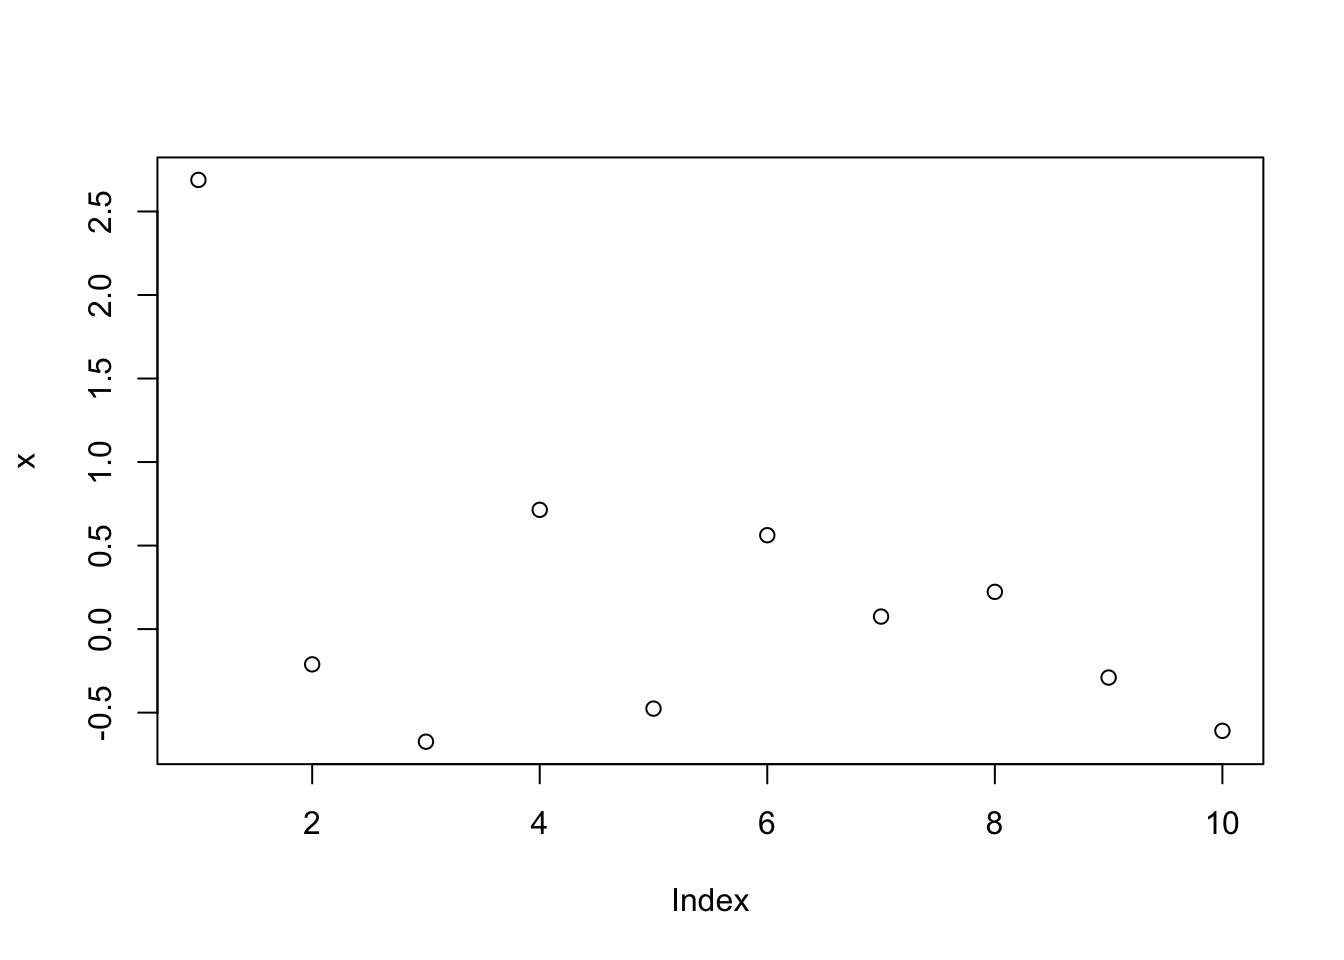
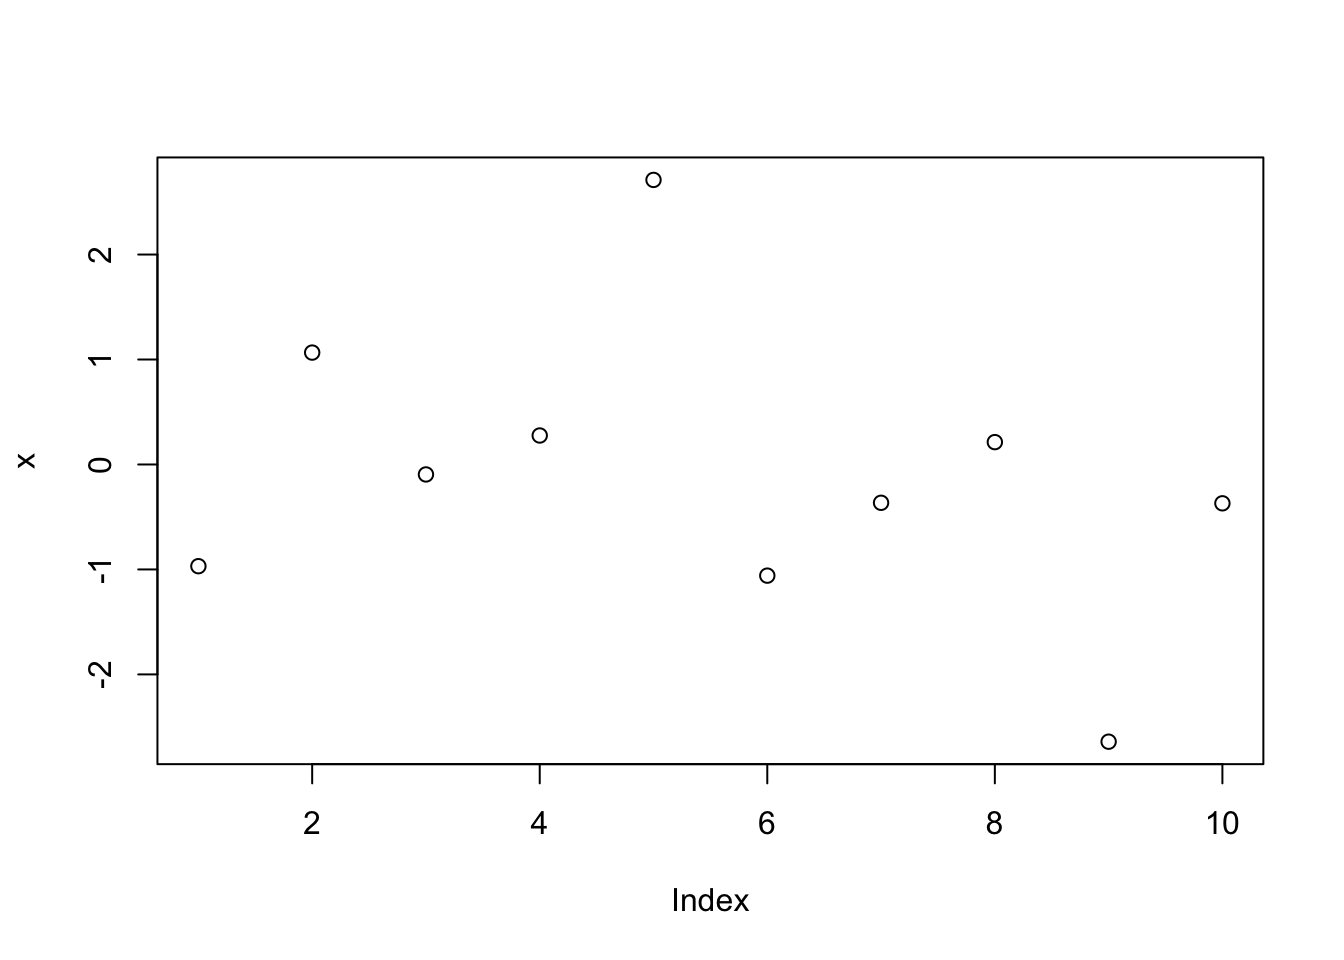
Edited css

diff --git a/docs/weekly-notes/index.html b/docs/weekly-notes/index.html
@@ -135,7 +135,7 @@ window.Quarto = {
 };
 </script>
 
-<link rel="stylesheet" href="styles.css">
+<link rel="stylesheet" href="../styles.css">
 </head>
 
 <body class="nav-fixed quarto-light">
@@ -227,7 +227,7 @@ Sep 2, 2026
 </a>
 </div>
 </div>
-<div class="quarto-post image-right" data-index="1" data-listing-date-sort="1788148800000" data-listing-file-modified-sort="1788541188343" data-listing-date-modified-sort="NaN" data-listing-reading-time-sort="3" data-listing-word-count-sort="481">
+<div class="quarto-post image-right" data-index="1" data-listing-date-sort="1788148800000" data-listing-file-modified-sort="1788541519713" data-listing-date-modified-sort="NaN" data-listing-reading-time-sort="3" data-listing-word-count-sort="478">
 <div class="thumbnail"><a href="../weekly-notes/Lecture2.html" class="no-external">
 
 <p class="card-img-top"><img loading='lazy' src="Lecture2_files/figure-html/unnamed-chunk-5-1.png"  class="thumbnail-image card-img"/></p>

diff --git a/docs/styles.css b/docs/styles.css
@@ -1,0 +1,26 @@
+.navbar {
+  background-color: #1a76bd!important;
+}
+.navbar-brand, .navbar-nav .nav-link {
+  color: #a8d1f0 !important; /* or whatever contrasts well */
+}
+
+.navbar-brand:hover,
+.navbar-nav .nav-link:hover {
+  color: #cee4f5 !important;
+}
+
+code:not(pre code) {
+  color: #d43a02 !important;
+}
+
+.sidebar nav[role="doc-toc"] ul > li > a:hover,
+.sidebar nav[role="doc-toc"] ul > li > ul > li > a:hover {
+  color: #1a76bd !important;
+  border-left: 1px solid #1a76bd;
+}
+
+.sidebar nav[role=doc-toc] ul>li>a.active, .sidebar nav[role=doc-toc] ul>li>ul>li>a.active {
+    border-left: 1px solid #1a76bd;
+    color: #1a76bd !important;
+}

diff --git a/styles.css b/styles.css
@@ -1,0 +1,26 @@
+.navbar {
+  background-color: #1a76bd!important;
+}
+.navbar-brand, .navbar-nav .nav-link {
+  color: #a8d1f0 !important; /* or whatever contrasts well */
+}
+
+.navbar-brand:hover,
+.navbar-nav .nav-link:hover {
+  color: #cee4f5 !important;
+}
+
+code:not(pre code) {
+  color: #d43a02 !important;
+}
+
+.sidebar nav[role="doc-toc"] ul > li > a:hover,
+.sidebar nav[role="doc-toc"] ul > li > ul > li > a:hover {
+  color: #1a76bd !important;
+  border-left: 1px solid #1a76bd;
+}
+
+.sidebar nav[role=doc-toc] ul>li>a.active, .sidebar nav[role=doc-toc] ul>li>ul>li>a.active {
+    border-left: 1px solid #1a76bd;
+    color: #1a76bd !important;
+}

diff --git a/docs/weekly-notes/Lecture2.html b/docs/weekly-notes/Lecture2.html
@@ -141,7 +141,7 @@ window.Quarto = {
 };
 </script>
 
-<link rel="stylesheet" href="styles.css">
+<link rel="stylesheet" href="../styles.css">
 </head>
 
 <body class="nav-fixed quarto-light">

diff --git a/docs/weekly-notes/Lecture3.html b/docs/weekly-notes/Lecture3.html
@@ -106,7 +106,7 @@ window.Quarto = {
 };
 </script>
 
-<link rel="stylesheet" href="styles.css">
+<link rel="stylesheet" href="../styles.css">
 </head>
 
 <body class="nav-fixed quarto-light">
